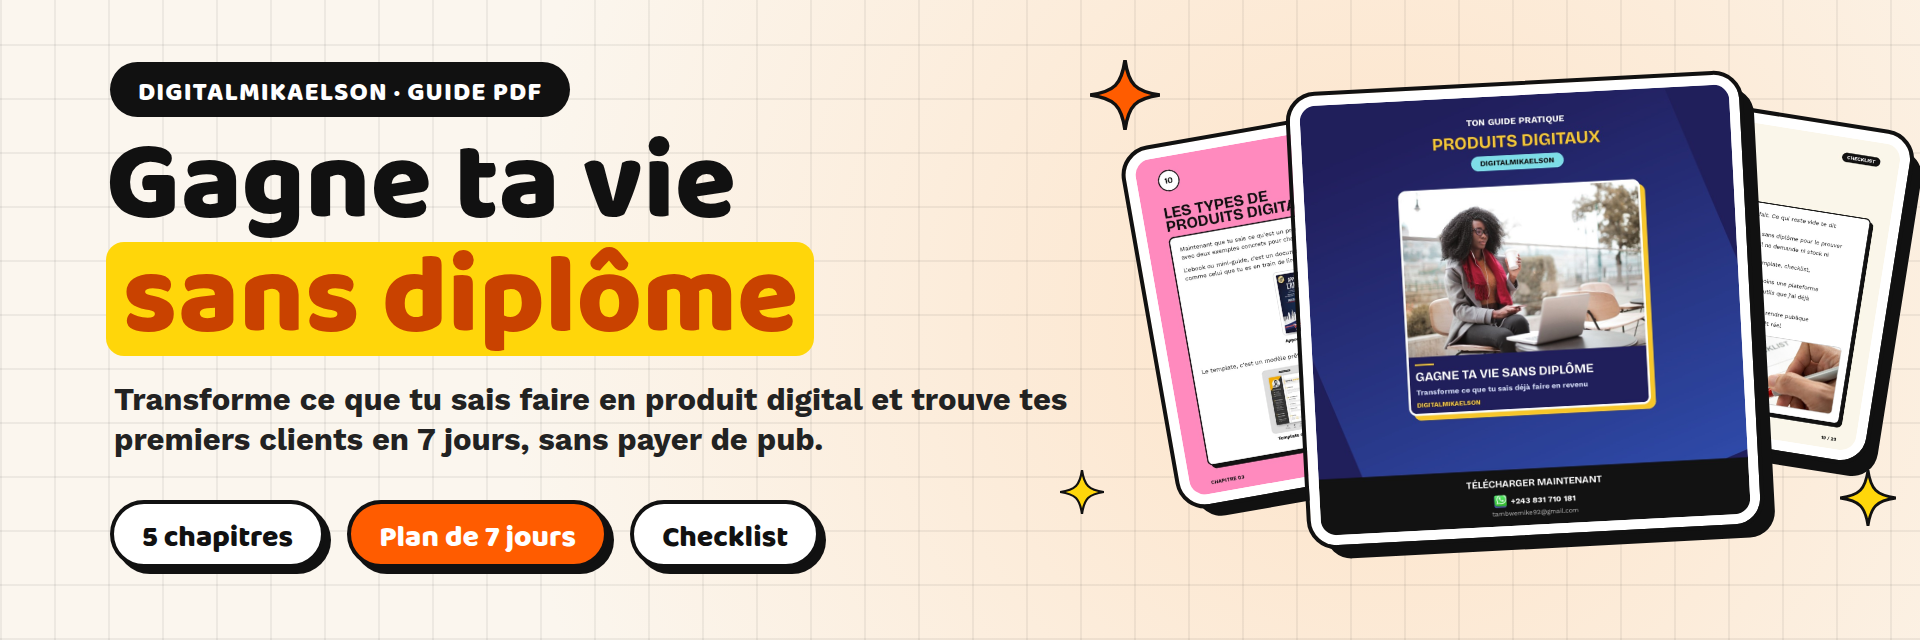
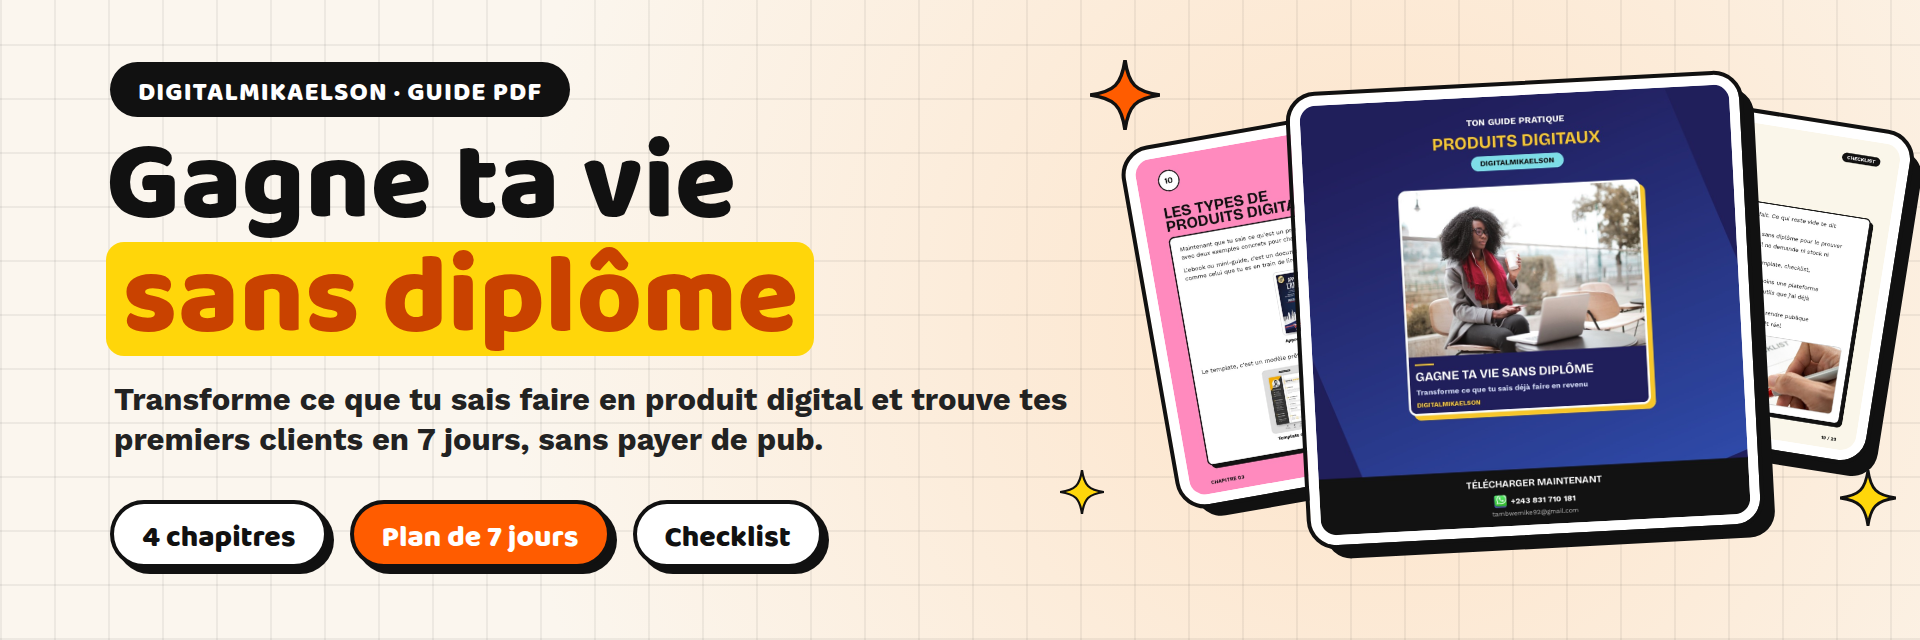
Page de vente et visuels du guide : 4 chapitres (comme le guide), images réexportées
Claude-Session: https://claude.ai/code/session_01Rbd17T62HRNTpwpQYdMyCs

Changed region(s): [[0.0625, 0.7812, 0.4375, 0.875]]

diff --git a/page-chariow/visuels/src/banniere.html b/page-chariow/visuels/src/banniere.html
@@ -14,7 +14,7 @@
 <div id="brand" class="abs brand">DIGITALMIKAELSON · GUIDE PDF</div>
 <div id="t" class="abs">Gagne ta vie<br><span class="hl">sans diplôme</span></div>
 <div id="sub" class="abs">Transforme ce que tu sais faire en produit digital et trouve tes premiers clients en 7 jours, sans payer de pub.</div>
-<div id="chips" class="abs"><div class="chip">5 chapitres</div><div class="chip">Plan de 7 jours</div><div class="chip">Checklist</div></div>
+<div id="chips" class="abs"><div class="chip">4 chapitres</div><div class="chip">Plan de 7 jours</div><div class="chip">Checklist</div></div>
 <svg class="spark" style="left:1090px;top:60px;width:70px" viewBox="0 0 100 100"><path d="M50 0C55 35 65 45 100 50C65 55 55 65 50 100C45 65 35 55 0 50C35 45 45 35 50 0Z" fill="#ff5c00" stroke="#111" stroke-width="5"/></svg>
 <svg class="spark" style="left:1840px;top:470px;width:56px" viewBox="0 0 100 100"><path d="M50 0C55 35 65 45 100 50C65 55 55 65 50 100C45 65 35 55 0 50C35 45 45 35 50 0Z" fill="#ffd60a" stroke="#111" stroke-width="5"/></svg>
 <svg class="spark" style="left:1060px;top:470px;width:44px" viewBox="0 0 100 100"><path d="M50 0C55 35 65 45 100 50C65 55 55 65 50 100C45 65 35 55 0 50C35 45 45 35 50 0Z" fill="#ffd60a" stroke="#111" stroke-width="5"/></svg>

diff --git a/carrousel-tiktok-ebook/carrousel.html b/carrousel-tiktok-ebook/carrousel.html
@@ -115,7 +115,7 @@
   <div class="page" style="left:110px; top:660px; width:380px; height:380px; transform:rotate(-9deg)"><img src="img/p10_types.jpg"></div>
   <div class="page" style="left:255px; top:580px; width:570px; height:570px; transform:rotate(-2deg)"><img src="img/ebook.png"></div>
   <div class="ab" style="left:0; width:1080px; top:1230px; display:flex; justify-content:center; gap:22px">
-    <div class="chip">5 chapitres</div><div class="chip" style="background:#ff5c00; color:#fff">Plan de 7 jours</div><div class="chip">Checklist</div></div>
+    <div class="chip">4 chapitres</div><div class="chip" style="background:#ff5c00; color:#fff">Plan de 7 jours</div><div class="chip">Checklist</div></div>
   <div class="ab txt" style="top:1370px; text-align:center">Un guide que j'ai écrit pour t'aider à <b>transformer ce que tu sais faire en produit digital</b>, et à trouver tes premiers clients.</div>
 </section>
 

diff --git a/page-chariow/visuels/src/pub_structure.html b/page-chariow/visuels/src/pub_structure.html
@@ -58,10 +58,9 @@ li::before { content: ''; position: absolute; left: 4px; top: 10px; width: 20px;
   <div id="panel" class="abs">
     <span class="pill navy">Dans le guide</span>
     <ul>
-      <li>Le mythe du diplôme</li>
-      <li>Le marketing digital</li>
-      <li>Les produits à créer</li>
-      <li>Créer et vendre</li>
+      <li>Le mythe à casser</li>
+      <li>Ta compétence vendable</li>
+      <li>Les formats simples</li>
       <li>Le test en 7 jours</li>
     </ul>
     <span class="pill cyan">En bonus</span>

diff --git a/page-chariow/page_vente_chariow.md b/page-chariow/page_vente_chariow.md
@@ -42,15 +42,13 @@ Tu le crées une fois, et tu peux le vendre plusieurs fois. 🔁
 
 ### 📘 Ce que tu trouves dans le guide
 
-1⃣ **Le mythe du diplôme.** Pourquoi ce que tu sais faire a de la valeur, ce qu'est un produit digital, et l'histoire d'Oncle David.
+1⃣ **Le mythe à casser.** Pourquoi tu n'as besoin ni d'un diplôme ni d'un talent rare, ce que les gens achètent vraiment dans un produit digital, et l'exemple d'Oncle David.
 
-2⃣ **Les bases du marketing digital.** La différence entre te faire connaître gratuitement et payer de la publicité. Puis la méthode VENDRE, et par quelles lettres commencer quand on débute.
+2⃣ **Trouve ta compétence vendable.** Les 3 familles de compétences (ce que tu fais de tes mains, ce qu'on t'a appris, le problème que tu sais résoudre), avec un exercice de 9 lignes pour choisir la tienne.
 
-3⃣ **Les produits que tu peux créer.** Ebook, modèle (CV, rapport de stage), checklist, mini-formation, kit. Avec des exemples concrets, comme une formation "Cuisiner avec un petit budget" 🍲 filmée au téléphone.
+3⃣ **Les formats sans compétence technique.** Mini-guide, modèle à remplir, checklist, capsule vidéo filmée au téléphone. Et comment choisir le plus rapide pour ton premier produit.
 
-4⃣ **Créer et vendre ton produit.** Tu n'as pas besoin de compétences techniques. Tu n'es même pas obligé de passer par une plateforme pour commencer.
-
-5⃣ **Le test en 7 jours.** Un plan jour par jour pour savoir si des gens sont prêts à payer pour ton idée.
+4⃣ **Le test en 7 jours.** Un plan jour par jour pour savoir si des gens sont prêts à payer pour ton idée, sans budget pub.
 
 🎁 Et à la fin, une checklist récapitulative pour ne rien oublier.
 
@@ -70,7 +68,7 @@ Tu le crées une fois, et tu peux le vendre plusieurs fois. 🔁
 
 Oncle David est menuisier. Il n'avait pas de budget publicité. Il a quand même transformé son savoir-faire en produit digital.
 
-Dans le guide, je te raconte comment il s'y est pris, et ce que tu peux reprendre pour toi.
+Dans le chapitre 1, je te raconte ce qu'il a fait, et ce que tu peux reprendre pour toi.
 
 [IMAGE : photo d'Oncle David, si tu en as une]
 
@@ -98,7 +96,7 @@ J'ai écrit ce guide pour ceux qui ont une compétence et qui ne savent pas comm
 Oui. C'est même le point de départ du guide.
 
 **💻 Je ne suis pas à l'aise avec la technique.**
-Le chapitre 4 part de là. Tu n'as pas besoin de compétences techniques pour créer et vendre ton premier produit.
+Le chapitre 3 part de là. Tu n'as pas besoin de compétences techniques pour créer ton premier produit.
 
 **📢 Est-ce que je dois payer de la publicité ?**
 Non. Le test en 7 jours se fait avec ton entourage et tes statuts WhatsApp.

diff --git a/projet-claude/contexte_projet.md b/projet-claude/contexte_projet.md
@@ -17,7 +17,7 @@
 
 ## 2. Ce qu'on vend aujourd'hui
 
-- **Guide « Gagne ta vie sans diplôme »** (ebook PDF, vendu sur Chariow, prix de lancement 4,9 $ au lieu de 6,9 $). Contenu : le mythe du diplôme, les bases du marketing digital (méthode VENDRE), les produits qu'on peut créer, créer et vendre son produit, le **test en 7 jours** sans budget pub, une checklist.
+- **Guide « Gagne ta vie sans diplôme »** (ebook PDF, vendu sur Chariow, prix de lancement 4,9 $ au lieu de 6,9 $). Contenu (4 chapitres) : le mythe à casser, trouver sa compétence vendable, les formats sans compétence technique, le **test en 7 jours** sans budget pub ; une checklist à la fin. Une vidéo par chapitre en préparation (`produits/ebook-videos/`).
 - **Tunnel** : commentaire « EBOOK » ou clic → WhatsApp → lien Chariow.
 - **En préparation** : un **accompagnement** de 21 jours « Ta compétence, ton premier produit », avec 5 premières places gratuites en échange de témoignages (voir le plan $100M Leads). Gratuit ou payant pour la vidéo Excel : **pas encore décidé**.
 

diff --git a/produits/ebook-videos/scripts_videos_ebook.md b/produits/ebook-videos/scripts_videos_ebook.md
@@ -19,7 +19,7 @@ Comme Alex Hormozi avec ses livres (« les vidéos de formation qui accompagnent
 | 4 | Le test en 7 jours | 286 | ~1 min 45 |
 | 5 | Et après ? | 128 | ~50 s |
 
-**À vérifier avant d'enregistrer :** la page de vente Chariow annonce 5 chapitres (dont « les bases du marketing digital, méthode VENDRE » et « créer et vendre ton produit »), alors que le texte du guide que j'ai a 4 chapitres (mythe, identification, formats, test en 7 jours). Les scripts suivent le texte du guide. Si la version finale du guide a les 5 chapitres, il faut 1 ou 2 vidéos de plus, ou corriger la page de vente.
+Le guide a 4 chapitres (confirmé par Mike le 9 octobre). La page de vente Chariow et les visuels ont été corrigés pour dire la même chose.
 
 ---
 

diff --git a/carrousel-tiktok-ebook/legende.md b/carrousel-tiktok-ebook/legende.md
@@ -41,7 +41,7 @@ Autres choix possibles :
 >
 > Voici mon guide « Gagne ta vie sans diplôme » : [LIEN CHARIOW]
 >
-> Il coûte [PRIX]. Dedans : 5 chapitres, un plan de 7 jours pour tester ton idée sans payer de pub, et une checklist.
+> Il coûte [PRIX]. Dedans : 4 chapitres, un plan de 7 jours pour tester ton idée sans payer de pub, et une checklist.
 >
 > Dis-moi : c'est quoi ta compétence ? Je te dis par quoi commencer. Si tu bloques, écris-moi ici, je t'accompagne.
 
